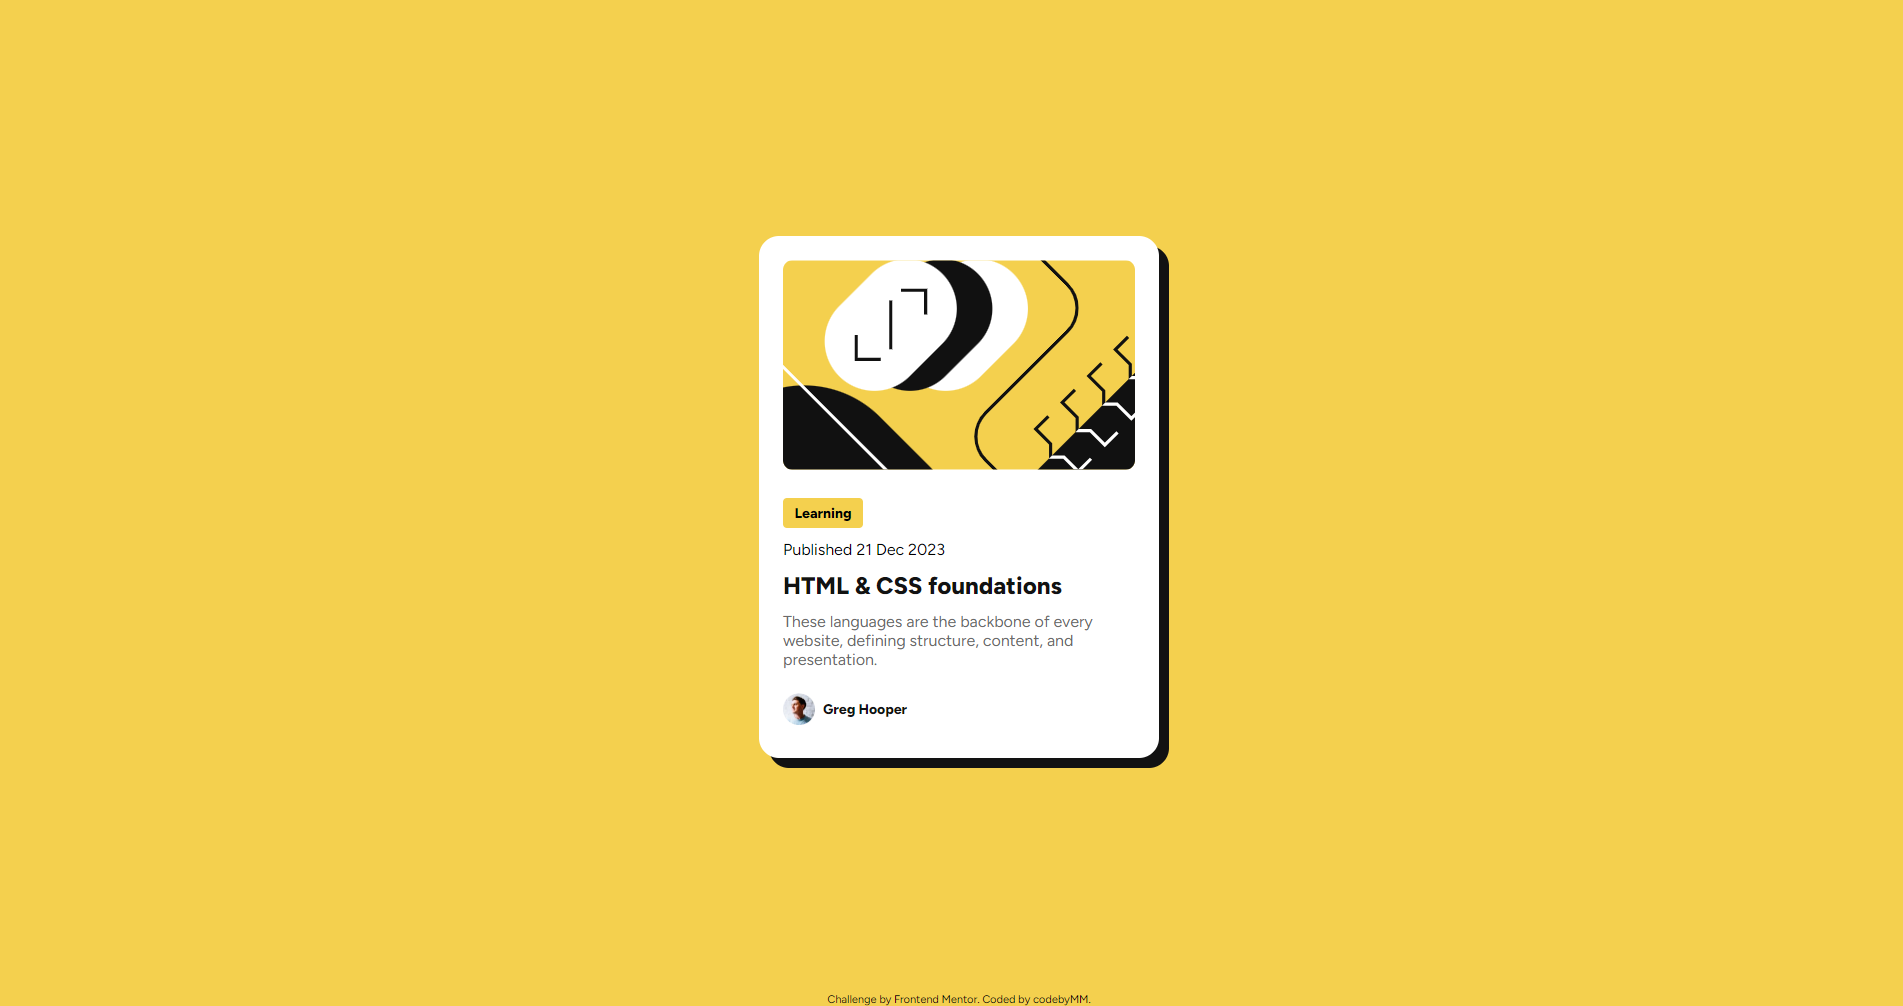
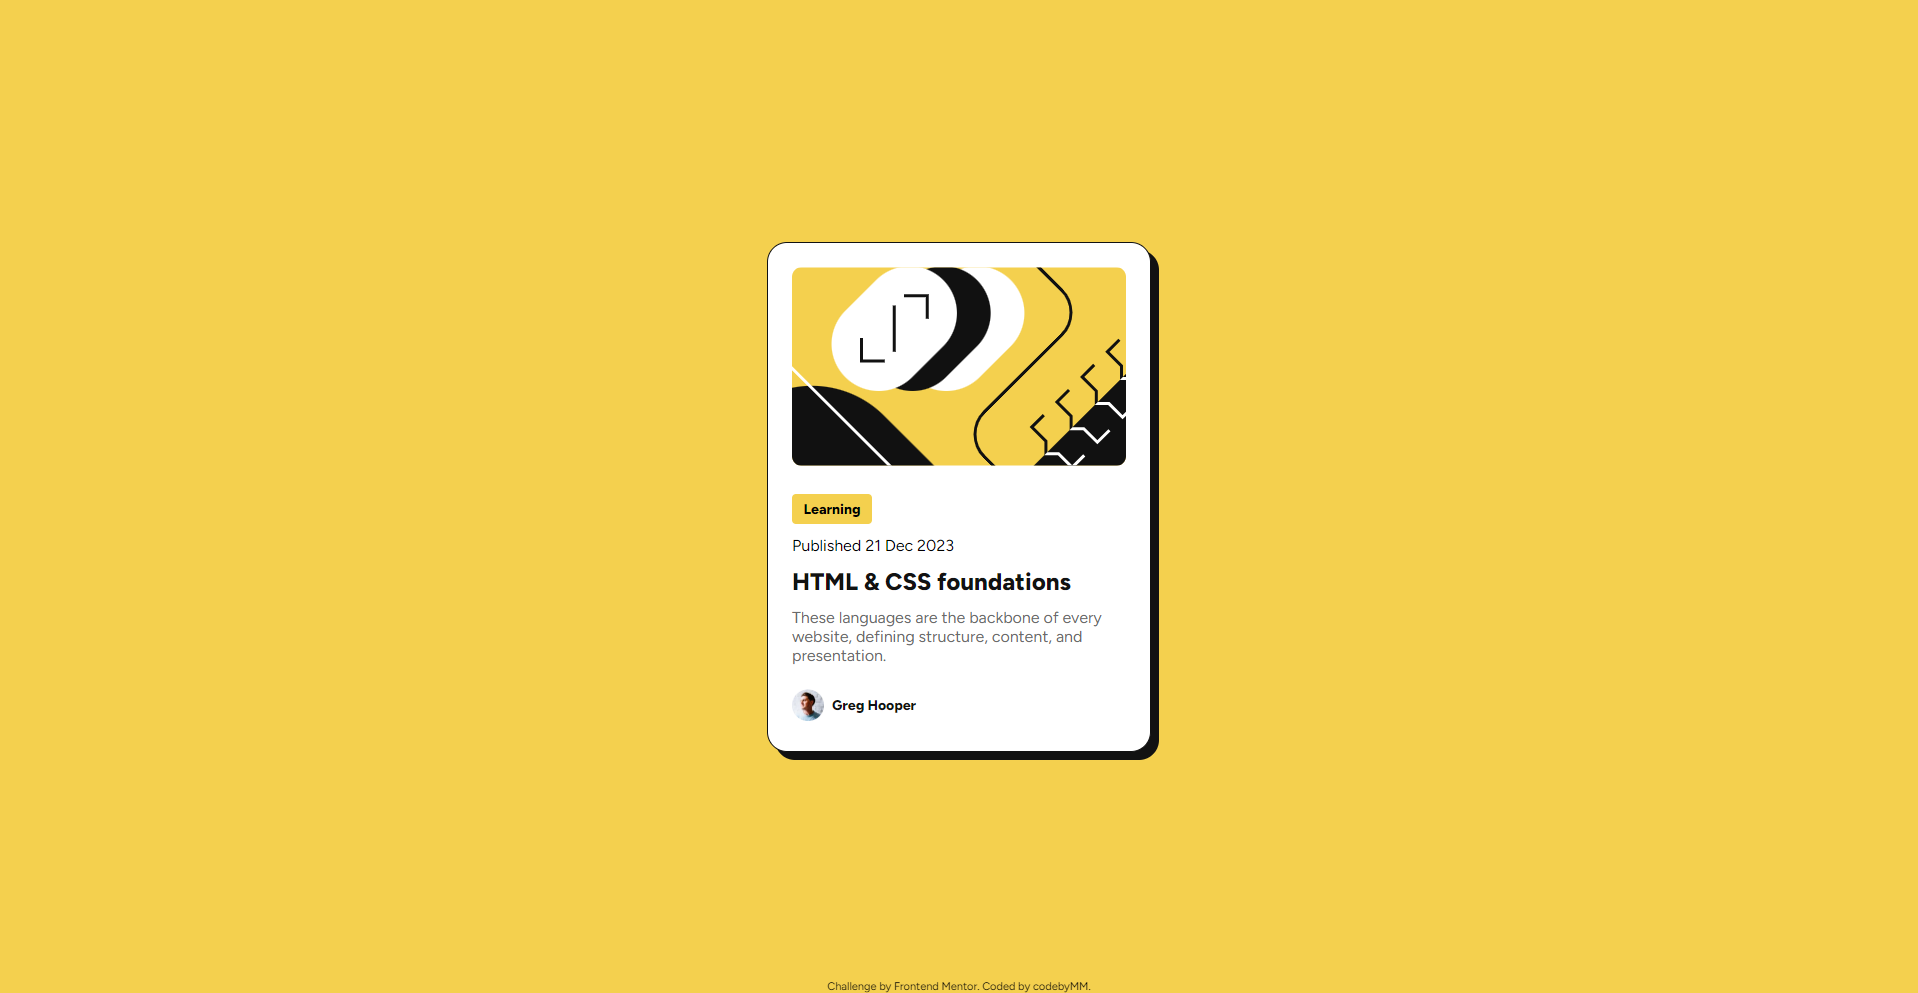
updating styles.css and readme.md

Changed region(s): [[0.403, 0.2185, 0.6201, 0.7805], [0.4341, 0.9678, 0.5581, 0.999]]

diff --git a/assets/css/styles.css b/assets/css/styles.css
@@ -43,13 +43,14 @@ main {
 }
 /*======================== ARTICLE ========================*/
 article {
+    border: 1px solid var(--gray950);
     background: var(--white);
     height: 100%;
     max-width: 384px;
     max-height: 510px;
     padding: 1.5rem;
     border-radius: 20px;
-    box-shadow: 10px 10px var(--gray950);
+    box-shadow: 8px 8px var(--gray950);
 }
 .article-illustration {
     width: 100%;
@@ -101,11 +102,16 @@ article {
     color: var(--gray950);
     font-weight: var(--fw-800);
 }
-
+footer {
+    position: fixed;
+    bottom: 0;
+    margin: 0 auto;
+    width: 100%;
+}
 /*======================== MOBILE ========================*/
 @media only screen and (max-width: 425px) {
     article {
         max-width: 327px;
-        max-height: 470px;
+        max-height: 490px;
     }
 }

diff --git a/README.md b/README.md
@@ -29,8 +29,8 @@ Users should be able to:
 
 ### Links
 
-- Solution URL: [Add solution URL here](https://your-solution-url.com)
-- Live Site URL: [Add live site URL here](https://your-live-site-url.com)
+- Solution URL: [https://www.frontendmentor.io/solutions/blog-preview-card---html-and-css-N1gqeZhRTF](https://www.frontendmentor.io/solutions/blog-preview-card---html-and-css-N1gqeZhRTF)
+- Live Site URL: [https://codebymm.github.io/fm__blogPreviewCard/](https://codebymm.github.io/fm__blogPreviewCard/)
 
 ## My process
 
